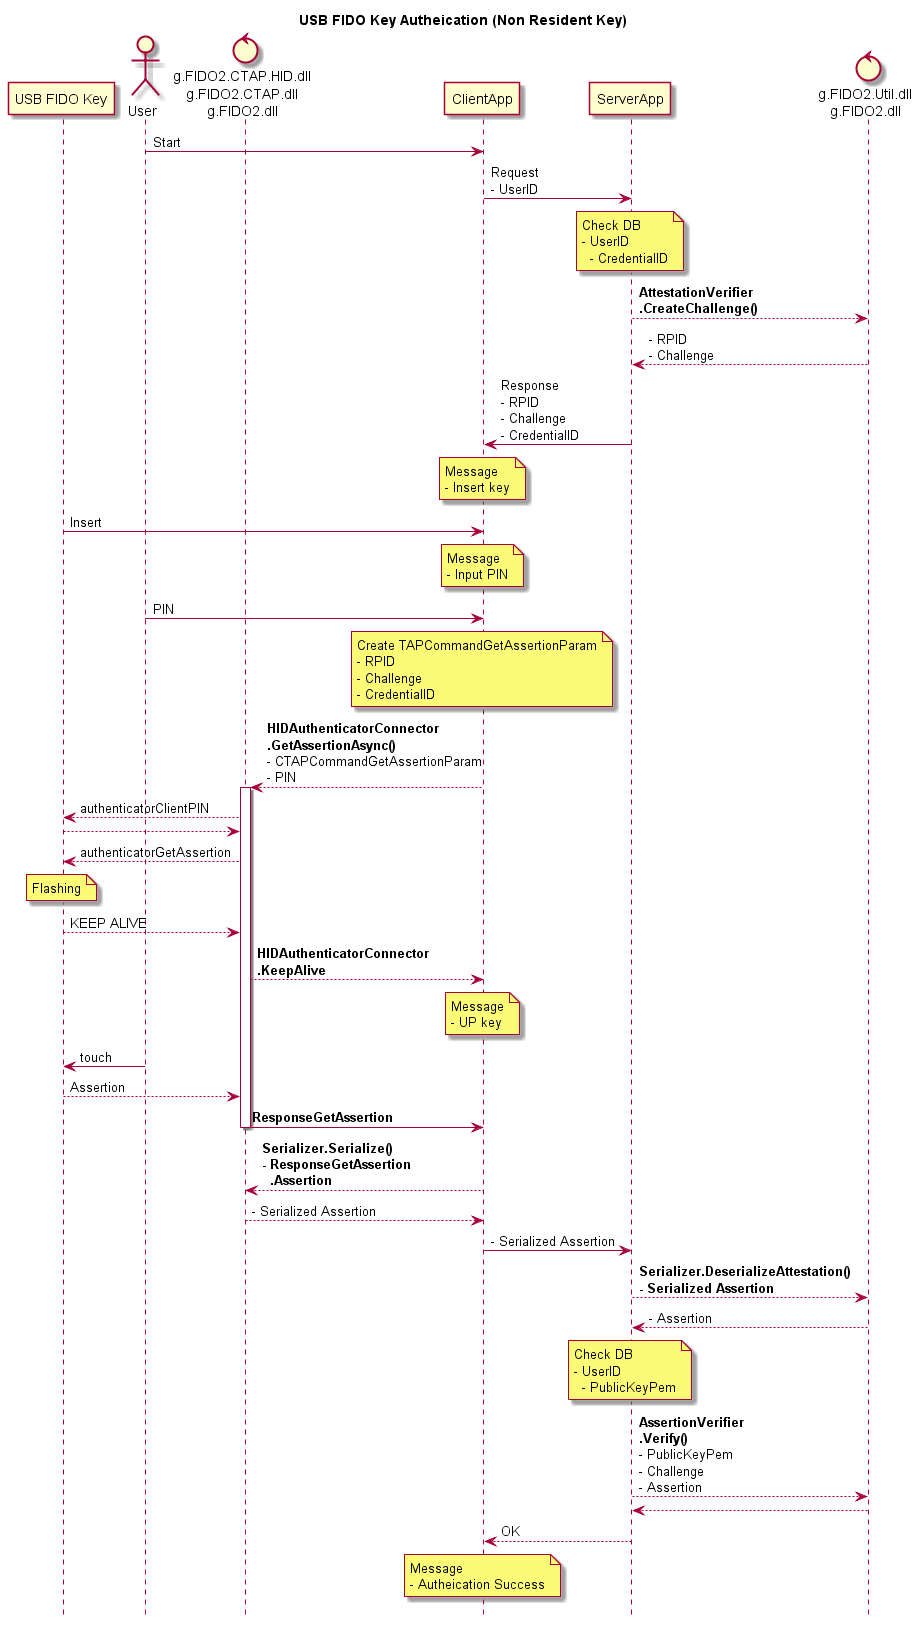
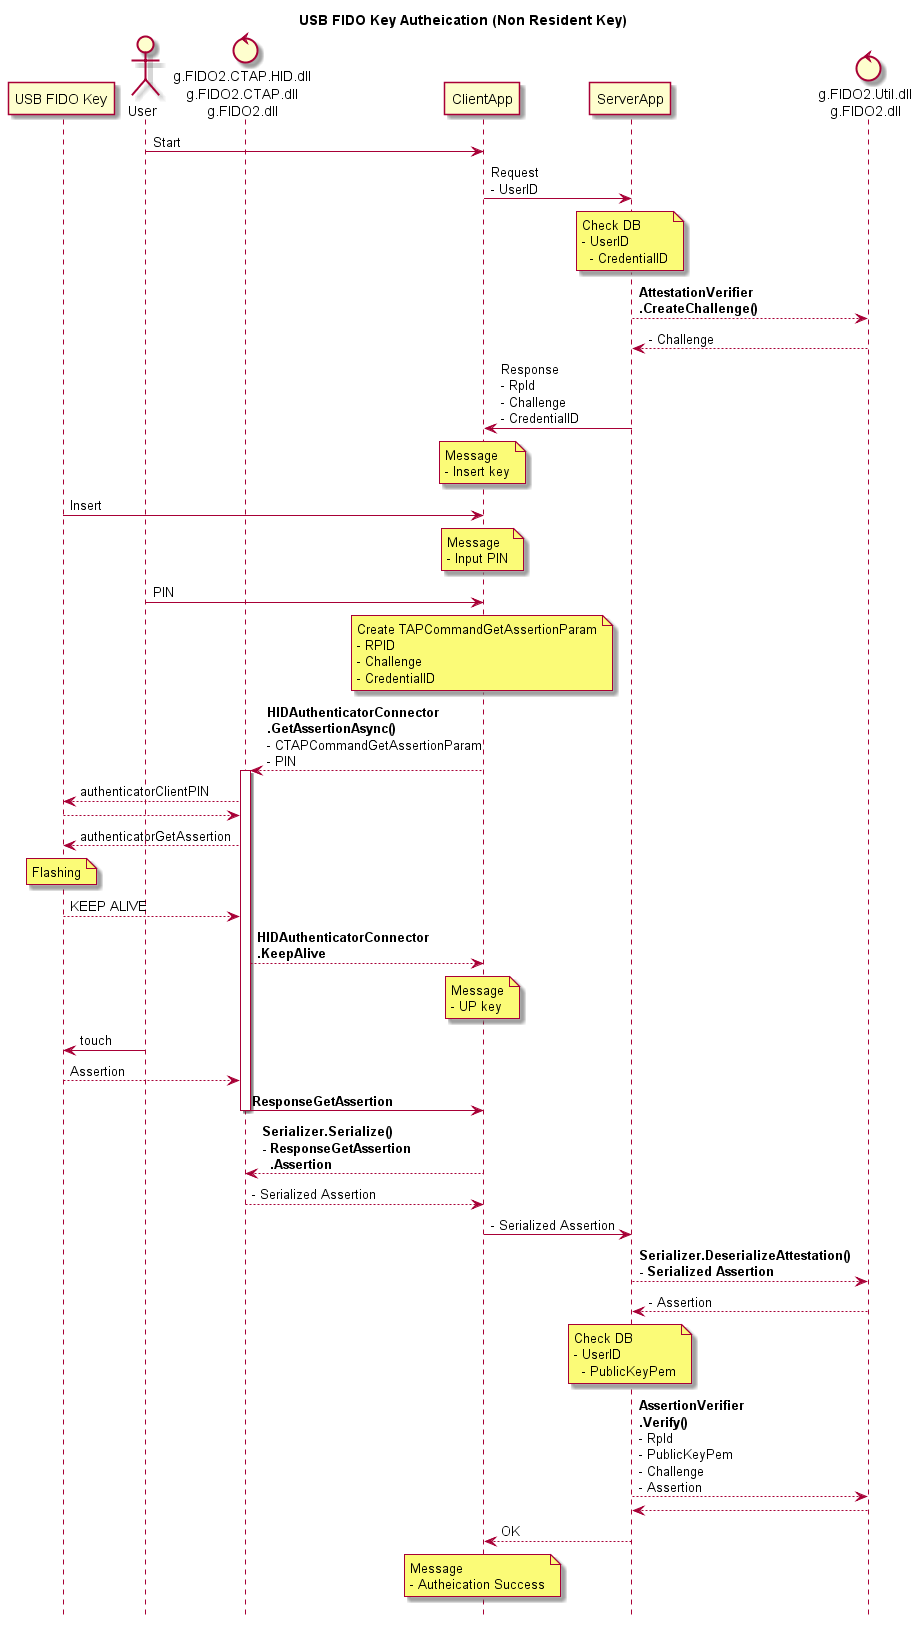
update

diff --git a/readme/CTAPcs_ReadMe_06.md b/readme/CTAPcs_ReadMe_06.md
@@ -28,7 +28,7 @@ public class AttestationVerifier:Verifier
 
 | method                                                       |                                                              |
 | ------------------------------------------------------------ | ------------------------------------------------------------ |
-| Result <br>**Verify**<br>(byte[] challenge, Attestation att) | Attestationを検証します。<br>引数challengeは`MakeCredentialAsync()`に指定したものと同じものを指定してください。 |
+| Result <br>**Verify**<br>(string rpid,byte[] challenge, Attestation att) | Attestationを検証します。<br>引数challengeは`MakeCredentialAsync()`に指定したものと同じものを指定してください。 |
 | X509Certificate2 <br>**CreateSelfSignedCertificate**<br>(Result result,string rpName,string userName,TimeSpan expirationDate) | 自己署名した証明書を作成します。<br>引数resultはVerify()の結果を指定します。 |
 
 
@@ -65,7 +65,7 @@ public class AssertionVerifier : Verifier
 
 | method                                                       |                                                              |
 | ------------------------------------------------------------ | ------------------------------------------------------------ |
-| Result <br>**Verify**<br>(string publicKey, byte[] challenge,Assertion ass) | Assertionを検証します。<br>引数challengeは`GetAssertionAsync()`に指定したものと同じものを指定してください。 |
+| Result <br>**Verify**<br>(string rpid,string publicKey, byte[] challenge,Assertion ass) | Assertionを検証します。<br>引数challengeは`GetAssertionAsync()`に指定したものと同じものを指定してください。 |
 
 
 
